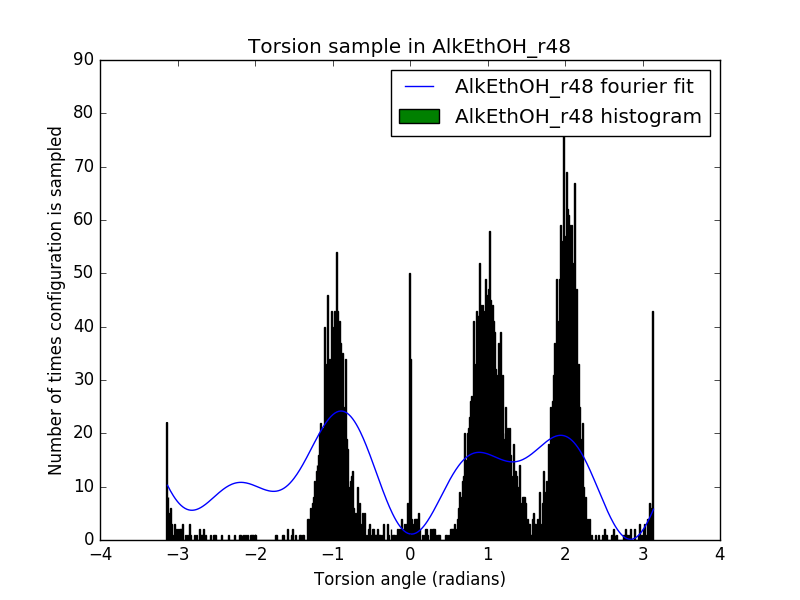
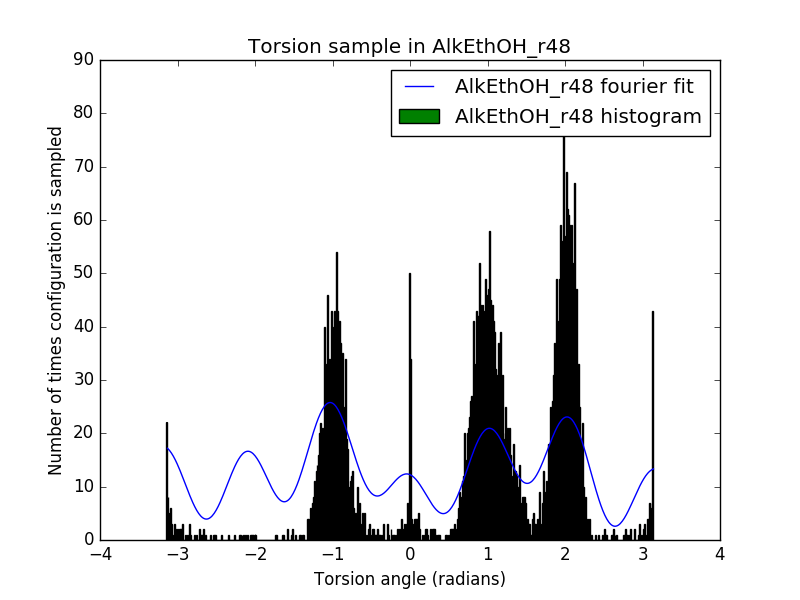
increase phase to 100.0

diff --git a/single-molecule-property-generation/least_squares_fit_example.py b/single-molecule-property-generation/least_squares_fit_example.py
@@ -431,7 +431,7 @@ plt.figure()
 #	if j==0.:
 #           n1[i]=5.
 
-popt, pcov = sci.curve_fit(fourier, bins1[1:], n1, [100.0,3.0,10.0]*3 , maxfev=100000)
+popt, pcov = sci.curve_fit(fourier, bins1[1:], n1, [100.0,3.0,100.0]*3 , maxfev=100000)
 plt.plot(bins1[1:],fourier(bins1[1:],*popt),label='AlkEthOH_r48 fourier fit')
 plt.ylabel('Number of times configuration is sampled')
 plt.xlabel('Torsion angle (radians)')
